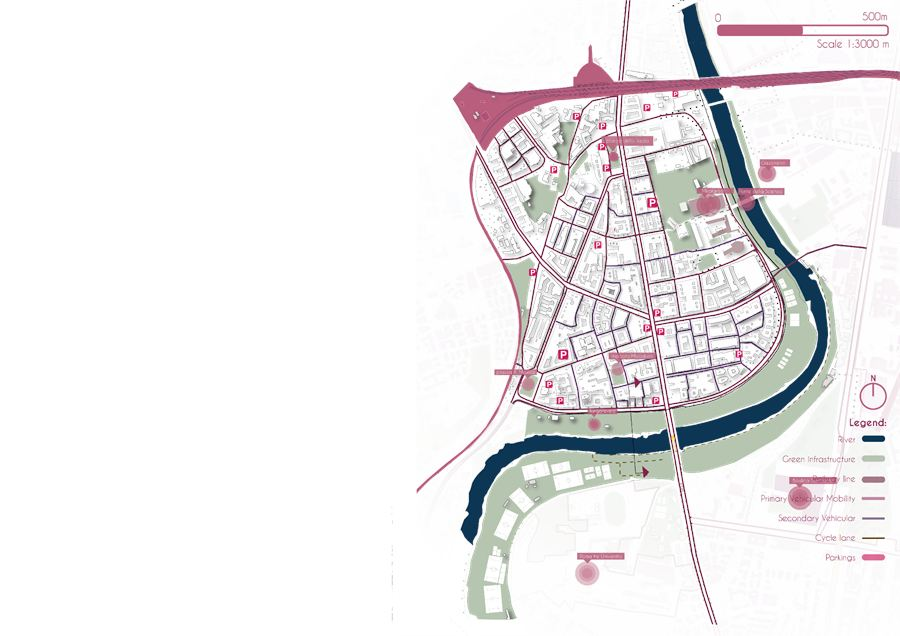
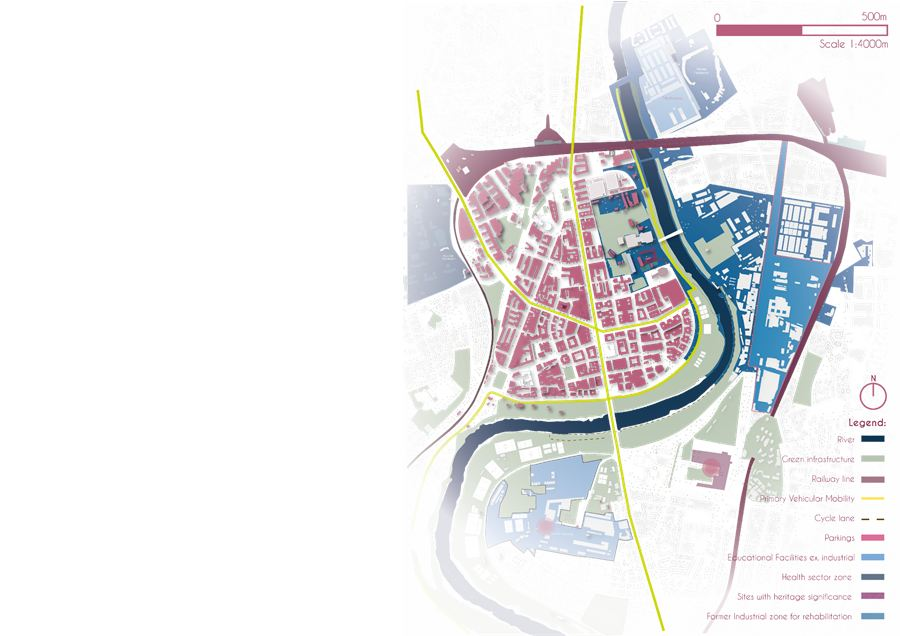
Rework the selected works grid; extend Viale Marconi
Selected works
- drop the description paragraph under each project title
- covers are desaturated at rest and return to colour on hover, so a card
  reads as a door rather than a picture
- add a "View project" affordance; on touch devices, where there is no
  hover to discover, covers stay in colour and the label carries the cue
- narrow the grid and reduce cover and title size for more white space
- reserve two lines in the metadata bar so titles align across a row
- swap the Europan cover to the Villa Pinocchio render: the masterplan is
  a pale drawing that read as an empty box once desaturated

Viale Marconi
- replace the context map with the wider one from the deck's context slide
- fold the three Re-Patch/Re-Adapt maps into the strategy chapter

diff --git a/assets/css/site.css b/assets/css/site.css
@@ -127,7 +127,6 @@ p:last-child { margin-bottom: 0; }
 .chapter__text,
 .article__body p,
 .entry__desc,
-.work__desc,
 .post-card__desc,
 .pub__cite {
   text-align: justify;
@@ -140,7 +139,7 @@ p:last-child { margin-bottom: 0; }
 /* Short measures tear badly when justified — leave them ragged. */
 @media (max-width: 34rem) {
   .prose, .prose p, .chapter__text, .article__body p,
-  .entry__desc, .work__desc, .post-card__desc, .pub__cite {
+  .entry__desc, .post-card__desc, .pub__cite {
     text-align: left;
   }
 }
@@ -562,10 +561,20 @@ p:last-child { margin-bottom: 0; }
    7. Works
    -------------------------------------------------------------------------- */
 
-.works { display: grid; gap: var(--s-6); }
+/* Narrower than the shell so the margins carry real white space, and the
+   cards themselves come down in size. */
+.works {
+  display: grid;
+  gap: var(--s-6);
+  max-width: 62rem;
+  margin-inline: auto;
+}
 
 @media (min-width: 56rem) {
-  .works { grid-template-columns: repeat(2, minmax(0, 1fr)); gap: var(--s-6) clamp(1.5rem, 4vw, 4rem); }
+  .works {
+    grid-template-columns: repeat(2, minmax(0, 1fr));
+    gap: var(--s-7) clamp(1.5rem, 3.5vw, 3rem);
+  }
 }
 
 .work { display: block; text-decoration: none; color: inherit; }
@@ -574,37 +583,75 @@ p:last-child { margin-bottom: 0; }
   overflow: hidden;
   background: var(--paper-sunk);
   border: var(--w-hair) solid var(--rule);
-  aspect-ratio: 4 / 3;
+  aspect-ratio: 3 / 2;
 }
 
+/* Desaturated at rest so the grid reads as one system; colour arrives on
+   hover, which is what makes the card feel like a door rather than a
+   picture. */
 .work__frame img {
   width: 100%; height: 100%; object-fit: cover;
-  transition: transform 700ms var(--ease);
+  filter: grayscale(1) contrast(1.02);
+  transition: transform 700ms var(--ease), filter 450ms var(--ease);
 }
 
 .work:hover .work__frame img,
-.work:focus-visible .work__frame img { transform: scale(1.035); }
+.work:focus-visible .work__frame img {
+  transform: scale(1.035);
+  filter: grayscale(0) contrast(1);
+}
+
+/* Every touch device: no cursor to hover with, so the covers stay in colour
+   and the invitation is stated in words instead. Hover is the enhancement,
+   not the only cue. */
+@media (hover: none) {
+  .work__frame img { filter: none; }
+}
 
 @media (prefers-reduced-motion: reduce) {
-  .work__frame img { transition: none; }
+  .work__frame img { transition: filter 450ms var(--ease); }
   .work:hover .work__frame img { transform: none; }
 }
 
+/* The stated affordance. */
+.work__go {
+  display: inline-block;
+  margin-top: var(--s-2);
+  padding-bottom: 2px;
+  border-bottom: var(--w-mid) solid var(--ink);
+  font-family: var(--mono);
+  font-size: var(--t-meta);
+  text-transform: uppercase;
+  letter-spacing: 0.16em;
+  color: var(--ink);
+  transition: opacity 200ms var(--ease);
+}
+
+.work__go::after { content: '\00a0\00a0\2192'; }
+.work:hover .work__go { opacity: 0.6; }
+
+/* Reserve two lines: on the narrower cards some labels wrap and some don't,
+   and without this the titles in a row sit at different heights. */
 .work__bar {
-  display: flex; justify-content: space-between; gap: var(--s-2);
+  display: flex; justify-content: space-between; align-items: flex-start;
+  gap: var(--s-2);
+  line-height: 1.5;
+  /* box-sizing is border-box, so the reservation has to cover the padding and
+     the rule as well as the two lines of text. */
+  min-height: calc(3em + var(--s-1) + var(--w-mid));
   margin-top: var(--s-2); padding-bottom: var(--s-1);
   border-bottom: var(--w-mid) solid var(--ink);
   font-family: var(--mono); font-size: var(--t-meta);
-  text-transform: uppercase; letter-spacing: 0.14em; color: var(--pencil);
+  text-transform: uppercase; letter-spacing: 0.12em; color: var(--pencil);
 }
+
+.work__bar span:last-child { text-align: right; }
 
 .work__title {
   margin-top: var(--s-2);
-  font-size: var(--t-h2);
-  letter-spacing: -0.03em;
+  font-size: clamp(1.125rem, 1.9vw, 1.5rem);
+  letter-spacing: -0.025em;
 }
-
-.work__desc { margin-top: var(--s-2); max-width: 46ch; font-size: var(--t-small); color: var(--graphite); }
 
 /* Reserved slot for work still to come. */
 .work--empty .work__frame {

diff --git a/work-marconi.html b/work-marconi.html
@@ -128,10 +128,10 @@
                 <div class="plate__frame">
                   <img src="assets/img/works/marconi/context-thumb.jpg"
                        data-full="assets/img/works/marconi/context.jpg"
-                       alt="Analysis map of the Marconi district showing potentials and critical issues along the Tiber"
+                       alt="Context map of the Marconi district on the Tiber, showing built fabric, institutions and the main axes"
                        loading="lazy" decoding="async">
                 </div>
-                <figcaption>Potentials and critical issues</figcaption>
+                <figcaption>The district on the Tiber</figcaption>
               </figure>
             </div>
           </section>
@@ -140,18 +140,18 @@
           <section class="chapter">
             <div class="chapter__head">
               <span class="chapter__no">02</span>
-              <h2 class="chapter__title">Strategy</h2>
+              <h2 class="chapter__title">Strategy — re-patch, re-adapt</h2>
             </div>
             <p class="chapter__text">
               Four moves, read left to right: the existing situation; patching the
               green across the east–west grain; enhancing public space along the axis;
-              and blurring the boundary between street and block interior. The wider
-              aims are a shift away from vehicular transport, better pedestrian
-              walkability, diversified land use through cultural hubs, and a
-              re-established link between city and river.
+              and blurring the boundary between street and block interior. Mapped onto
+              the district, that means patching east–west connectivity, reclaiming
+              access between city and river, advocating slow and soft mobility, and
+              re-adapting the under-valorised areas the fabric has left over.
             </p>
-            <div class="plates plates--single">
-              <figure class="plate">
+            <div class="plates">
+              <figure class="plate plate--wide">
                 <div class="plate__frame">
                   <img src="assets/img/works/marconi/strategy-thumb.jpg"
                        data-full="assets/img/works/marconi/strategy.jpg"
@@ -159,6 +159,33 @@
                        loading="lazy" decoding="async">
                 </div>
                 <figcaption>Existing situation · patching the green · enhancing public space · blurring boundaries</figcaption>
+              </figure>
+              <figure class="plate">
+                <div class="plate__frame">
+                  <img src="assets/img/works/marconi/connectivity-thumb.jpg"
+                       data-full="assets/img/works/marconi/connectivity.jpg"
+                       alt="Map of proposed east-west connections crossing the main north-south axis"
+                       loading="lazy" decoding="async">
+                </div>
+                <figcaption>Patching east–west connectivity</figcaption>
+              </figure>
+              <figure class="plate">
+                <div class="plate__frame">
+                  <img src="assets/img/works/marconi/public-network-thumb.jpg"
+                       data-full="assets/img/works/marconi/public-network.jpg"
+                       alt="Map of the proposed public space and soft mobility network through the district"
+                       loading="lazy" decoding="async">
+                </div>
+                <figcaption>Public space and soft mobility network</figcaption>
+              </figure>
+              <figure class="plate plate--wide">
+                <div class="plate__frame">
+                  <img src="assets/img/works/marconi/readapt-thumb.jpg"
+                       data-full="assets/img/works/marconi/readapt.jpg"
+                       alt="Map marking under-valorised areas and the points of intervention within them"
+                       loading="lazy" decoding="async">
+                </div>
+                <figcaption>Under-valorised areas and points of intervention</figcaption>
               </figure>
             </div>
           </section>

diff --git a/works.html b/works.html
@@ -68,28 +68,21 @@
             <span>Beirut, 2024</span>
           </div>
           <h2 class="work__title">The St. George Hotel and Bay</h2>
-          <p class="work__desc">
-            One of Beirut's first modernist buildings, derelict since 1975 and fenced
-            off from its own shoreline. The thesis argues it back into public life
-            through climate-aided regeneration.
-          </p>
+          <span class="work__go">View project</span>
         </a>
 
         <a class="work" href="work-europan-18.html" data-reveal>
           <div class="work__frame">
-            <img src="assets/img/works/europan-18/masterplan-thumb.jpg"
-                 alt="Masterplan drawing for Polignano a Mare showing the proposed mobility and green network"
-                 loading="lazy" decoding="async" width="900" height="676">
+            <img src="assets/img/works/europan-18/park-1-thumb.jpg"
+                 alt="The unfenced urban park at Villa Pinocchio, with play equipment among preserved trees"
+                 loading="lazy" decoding="async" width="900" height="600">
           </div>
           <div class="work__bar">
             <span>02 — Europan 18 · Special Mention</span>
             <span>Polignano a Mare, 2025</span>
           </div>
           <h2 class="work__title">Polymnia Futura</h2>
-          <p class="work__desc">
-            A town under tourist pressure, read through its movement. Four sites
-            turn parking and residual ground into mobility hubs, housing and park.
-          </p>
+          <span class="work__go">View project</span>
         </a>
 
         <a class="work" href="work-marconi.html" data-reveal>
@@ -103,11 +96,7 @@
             <span>Rome, 2023</span>
           </div>
           <h2 class="work__title">Viale Marconi</h2>
-          <p class="work__desc">
-            A traffic axis turned back into the neighbourhood's public room, with
-            the green branching from it into the block interiors and down to the
-            Tiber.
-          </p>
+          <span class="work__go">View project</span>
         </a>
 
         <a class="work" href="work-mura-aureliane.html" data-reveal>
@@ -121,11 +110,7 @@
             <span>Rome, 2023</span>
           </div>
           <h2 class="work__title">Mura Aureliane</h2>
-          <p class="work__desc">
-            The collapsed galleria of the Aurelian Wall, indexed rather than
-            rebuilt — a modular corten addition that restores the rhythm without
-            competing with the ruin.
-          </p>
+          <span class="work__go">View project</span>
         </a>
 
         <a class="work" href="work-abdali.html" data-reveal>
@@ -139,10 +124,7 @@
             <span>Kuwait, 2021</span>
           </div>
           <h2 class="work__title">Shelter — Abdali Farmhouse</h2>
-          <p class="work__desc">
-            A cluster of rammed-earth domes designed to be raised by volunteers in
-            a workshop, so the building teaches the technique that made it.
-          </p>
+          <span class="work__go">View project</span>
         </a>
 
         <div class="work work--empty" data-reveal>
